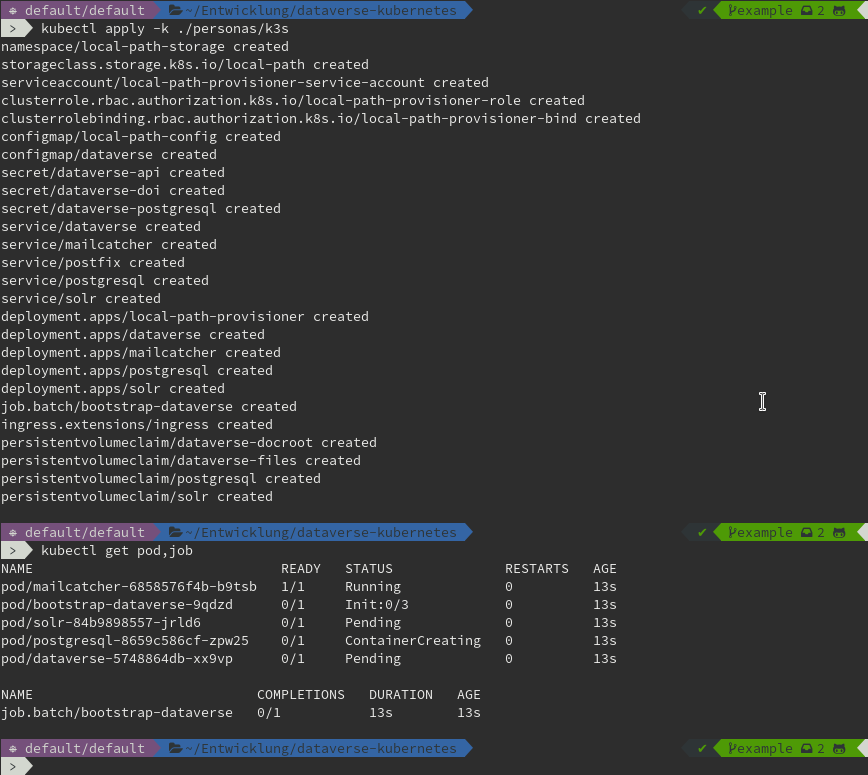
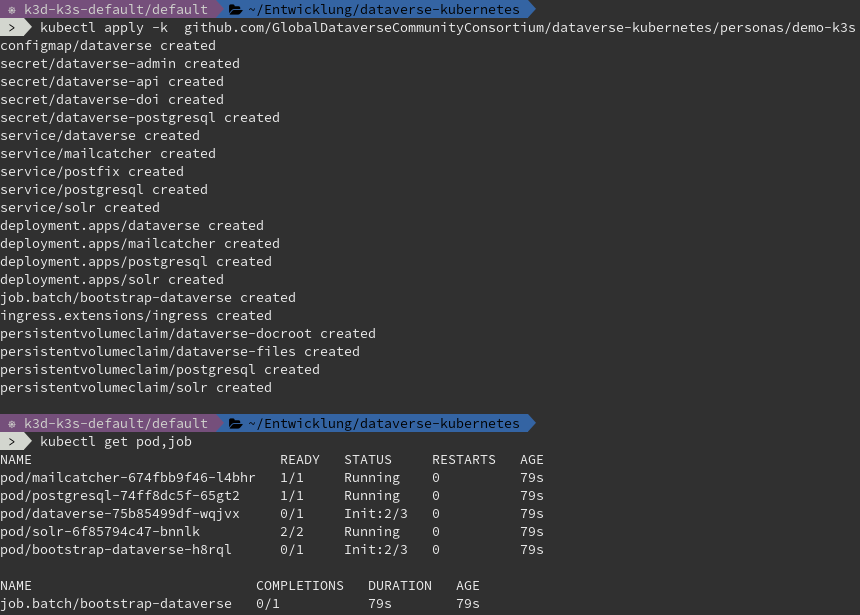
Update K3s Quickstart docs. #211

diff --git a/docs/quickstart/k3s.rst b/docs/quickstart/k3s.rst
@@ -22,27 +22,24 @@ As K3s removed all "in-tree" storage classes, you will need to provide
 one on your own. For simple purposes like demos or development, local storage
 is sufficient.
 
-.. note::
-  The *k3s.io* persona will add a `local provisioner <https://github.com/rancher/local-path-provisioner>`_ by default,
-  so the default storage class will "just work".
-
 For getting started quickly, you can use *k3s.io* on *Docker* easily with *k3d*. You'll need:
 
 - `Docker <https://docs.docker.com/install>`_
-- `k3d <https://github.com/rancher/k3d/releases>`_
+- `k3d <https://k3d.io/#installation>`_ v3.1+
 
 Now create a small test cluster for this demo:
 
 .. code-block:: shell
 
-  k3d create --publish 8080:80 --wait 0
-  export KUBECONFIG="$(k3d get-kubeconfig --name='k3s-default')"
+  k3d cluster create -p "8080:80@loadbalancer"
 
 .. image:: img/k3s-setup.png
 
 .. hint::
-  Remember you need to expose the ``Ingress`` port, thus the ``--publish 8080:80``. Ingress will be reachable via http://localhost:8080 later.
-
+  Remember you need to expose the ``Ingress`` port, thus the ``-p "8080:80@loadbalancer"``.
+  Ingress will be reachable via http://localhost:8080 later. See also
+  `k3d exposing guide <https://k3d.io/usage/guides/exposing_services>`_ for more
+  options on exposing ports.
 
 
 Let's get ready to Dataverse...
@@ -59,7 +56,7 @@ Now start to deploy Dataverse plus any necessary services and bootstrap via Kust
 
 .. code-block:: shell
 
-  kubectl apply -k github.com/IQSS/dataverse-kubernetes/personas/demo-k3s
+  kubectl apply -k github.com/GlobalDataverseCommunityConsortium/dataverse-kubernetes/personas/demo-k3s
 
 .. image:: img/k3s-deploy.png
 
@@ -71,6 +68,8 @@ your host to the service.
 
 Wait a little longer...
 
+.. image:: img/k3s-wait-2.png
+.. image:: img/k3s-wait-3.png
 .. image:: img/k3s-done.png
 
 Point your favorite browser to http://localhost:8080 and enjoy your freshly backed Dataverse demo.
@@ -84,12 +83,13 @@ Point your favorite browser to http://localhost:8080 and enjoy your freshly back
 
 A word on deployment times
 ^^^^^^^^^^^^^^^^^^^^^^^^^^
-On a 2016 laptop with
+On a 2020 laptop with
 
-- 16 GB RAM,
+- 32 GB RAM,
 - SATA SSD,
-- Intel Core i5-6300U and
+- Intel Core i7-8665U and
 - a fairly fast internet connection for image pulling
+- and Docker Hub behaving normal
 
 it takes about **3 to 4 minutes** from zero to hero, not including installation time
-for Docker, k3d/k3s or kubectl. See also timestamps above.
+for Docker, k3d/k3s or kubectl. Timestamps above differ due to Docker Hub problems.
